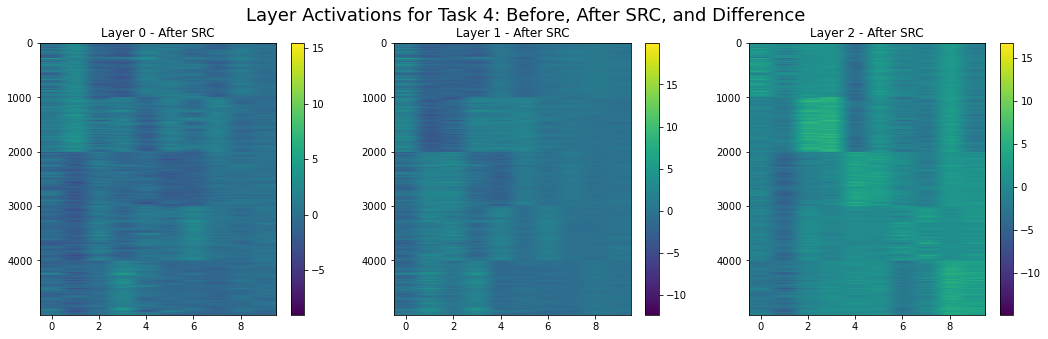
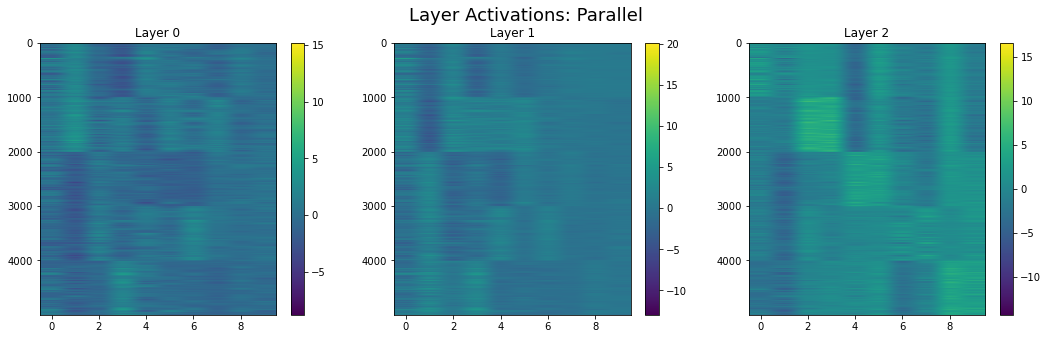
minor fix

diff --git a/mnist_exp.py b/mnist_exp.py
@@ -342,7 +342,7 @@ print(evaluate_all(model, test_x, test_y))
 
 # [Visual] Record activations layer visualization
 with torch.no_grad():
-    control_model.eval()
+    model.eval()
 
     activations = get_activations(model.to(device), torch.Tensor(sequential_train_x).to(device))
     layer_activations = [act.cpu() for act in activations.values()]
@@ -358,11 +358,11 @@ for i in range(len(model.layers)):
 
 # [Visual] Plot the reduced activations as images for each layer before and after SRC
 fig, axs = plt.subplots(1, len(model.layers), figsize=(len(model.layers) * 6, 5))
-fig.suptitle(f'Layer Activations for Task {task_id}: Before, After SRC, and Difference', fontsize=18)
+fig.suptitle(f'Layer Activations: Parallel', fontsize=18)
 
 for i in range(len(model.layers)):
     im2 = axs[i].imshow(reduced_activations[i], aspect='auto')
-    axs[i].set_title(f'Layer {i} - After SRC', fontsize=12)
+    axs[i].set_title(f'Layer {i}', fontsize=12)
     fig.colorbar(im2, ax=axs[i])
 
 fig.savefig(f'./png/layer_activations_parallel.png', bbox_inches='tight', facecolor='w')
